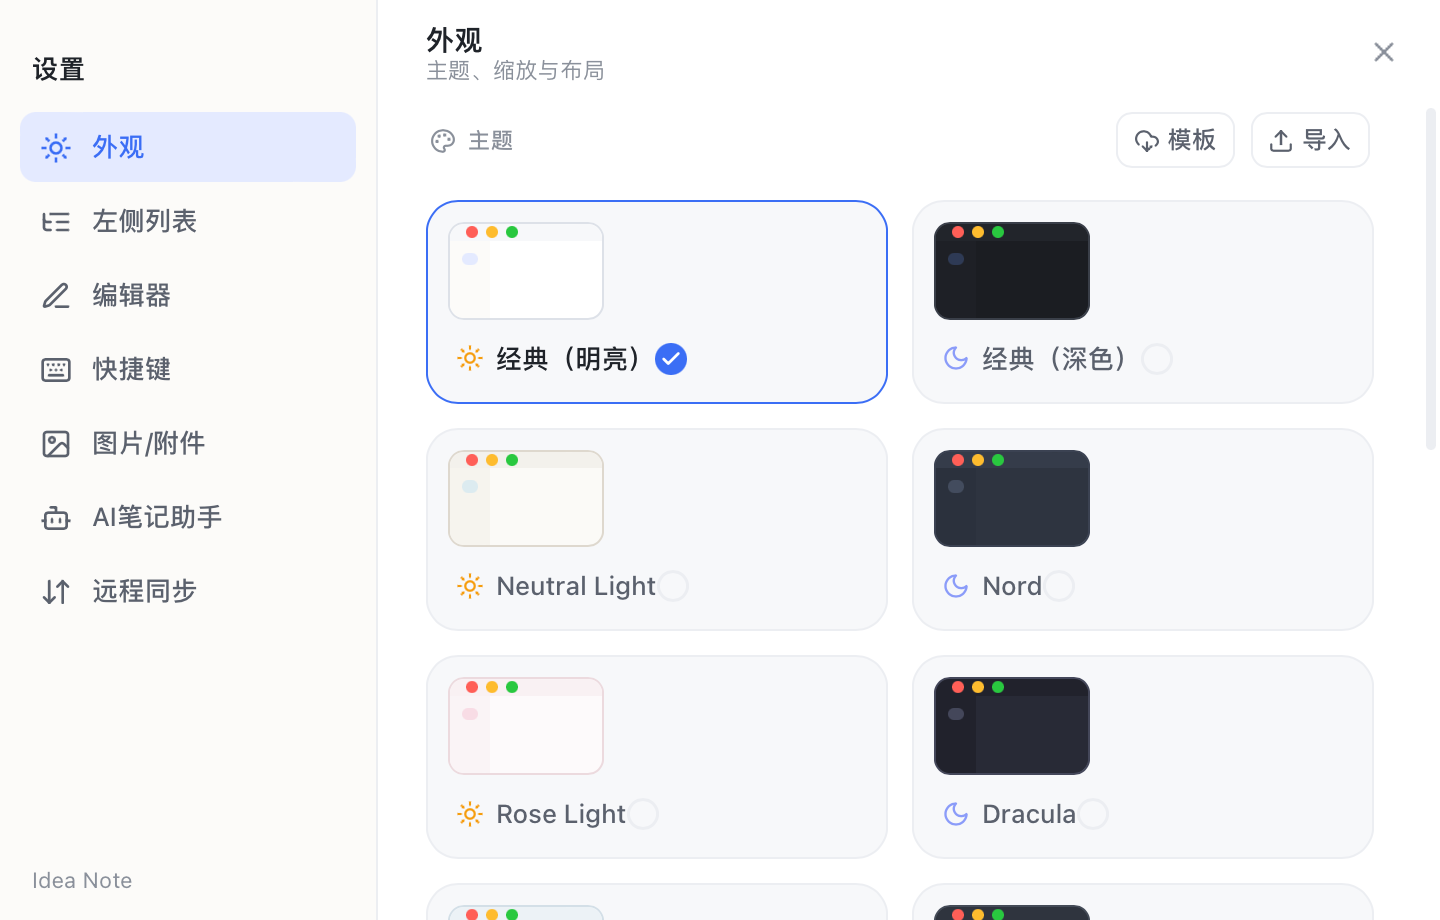
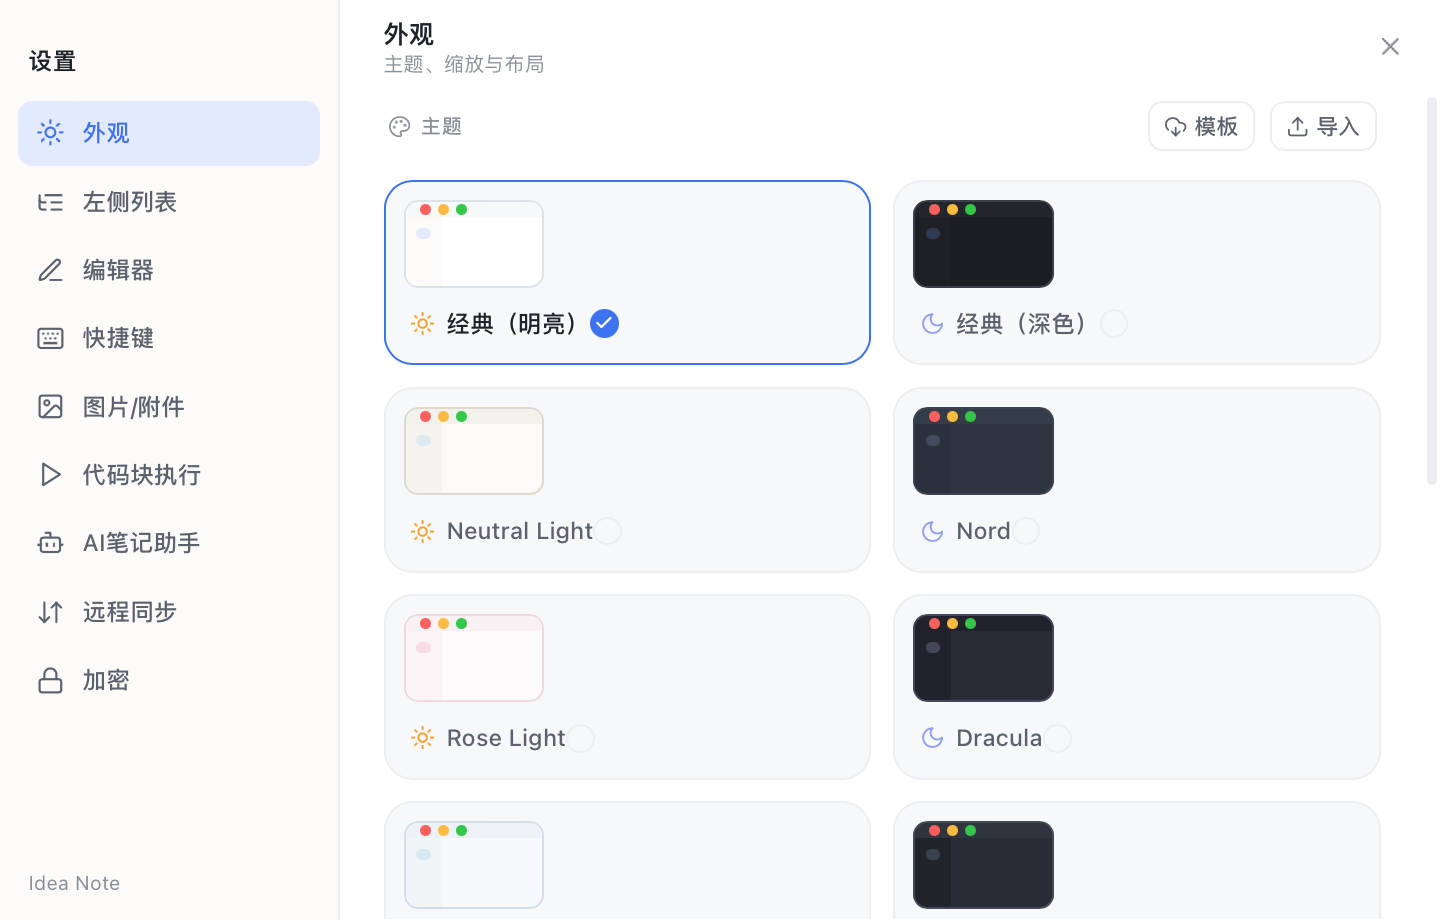
docs: update README features and add encryption docs

diff --git a/README.md b/README.md
@@ -24,13 +24,13 @@
 
 
 ## ✨ 功能特性
-- **Markdown 编辑器**：所见即所得实时编辑，支持公式、Mermaid流程图、HTML/SVG渲染、大纲、工具栏。
-- **执行代码块**：markdown中的的代码块一键直接执行。
-- **可交互组件**：直接在markdown中做可直接交互的小工具。
-- **文件管理**：除markdown外还可编辑其他文本文件，可作为轻量级项目文件管理器。
-- **AI 笔记助手**：用自然语言对当前笔记进行问答、总结、润色，并通过工具直接读取、搜索、新建、编辑或删除笔记，还能按需写出可交互组件。
-- **内置工具**：内置git远程同步、终端。
-- **导出**：支持导出PDF和打印。
+- 📝 **Markdown 编辑器**：所见即所得实时编辑，支持公式、Mermaid流程图、HTML/SVG渲染、大纲、工具栏。
+- ▶ **执行代码块**：markdown中的的代码块一键直接执行。
+- 🕹 **可交互组件**：直接在markdown中做可直接交互的小工具。
+- 🔐 **加密**：可对笔记中的部分内容进行加密/解密。
+- 📁 **文件管理**：除markdown外还可编辑其他文本文件，可作为轻量级项目文件管理器。
+- ![AI 助手](./doc/assets/ai-assistant-inline.svg) **AI 笔记助手**：用自然语言对当前笔记进行问答、总结、润色，并通过工具直接读取、搜索、新建、编辑或删除笔记，还能按需写出可交互组件。
+- 🛠 **内置工具**：内置git远程同步、终端、导出PDF和打印。
 
 ## 📖 使用说明
 
@@ -117,6 +117,15 @@ xattr -rd com.apple.quarantine /Applications/Idea\ Note.app
 接入AI模型可参考： [doc/AI笔记助手接入DeepSeek步骤.md](./doc/AI笔记助手接入DeepSeek步骤.md)。
 
 
+### 🔐 笔记加密
+
+在“设置 → 加密”中为当前工作区设置口令后，选中需要保护的内容并打开右键菜单，即可选择“整块加密”或“行内加密”。加密内容以密文形式保存在 Markdown 文件中，解锁后才能查看和编辑；也可以立即上锁，或设置口令在本次会话中的有效时间。
+
+口令本身不会保存到任何地方。首次设置时会生成一串仅显示一次的恢复码，请将它存入密码管理器或妥善抄录；如果口令和恢复码同时丢失，加密内容将无法恢复。设置中还支持修改口令、重新生成恢复码和重置主密钥。
+
+使用 Git 同步时，请将工作区中的 `.ideanote/vault.json` 一并提交到仓库。该文件只保存由口令保护的密钥，不包含明文内容；在其他设备上输入相同口令，即可解锁随笔记同步的密文。
+
+
 ### 🔄 Git 同步与历史记录
 
 在"设置 → 远程同步"中配置，基于命令行 git 实现（需已安装 git），支持两种方式：
@@ -150,9 +159,10 @@ xattr -rd com.apple.quarantine /Applications/Idea\ Note.app
 - **编辑器**：字体、字号、字重、行高与标题缩放
 - **快捷键**：自定义编辑器快捷键
 - **图片/附件**：粘贴图片与文件的保存目录（笔记目录 / 工程目录 / 绝对目录）
-- **代码执行**：可运行的代码块语言、解释器命令与超时、输出上限
+- **代码块执行**：可运行的代码块语言、解释器命令与超时、输出上限
 - **AI 笔记助手**：模型服务、API Key 与字号
 - **远程同步**：Git 仓库与同步代理
+- **加密**：按工作区设置加密口令与口令有效期，可立即上锁、修改口令、重新生成恢复码或重置主密钥
 
 
 ## 🛠 开发与构建
